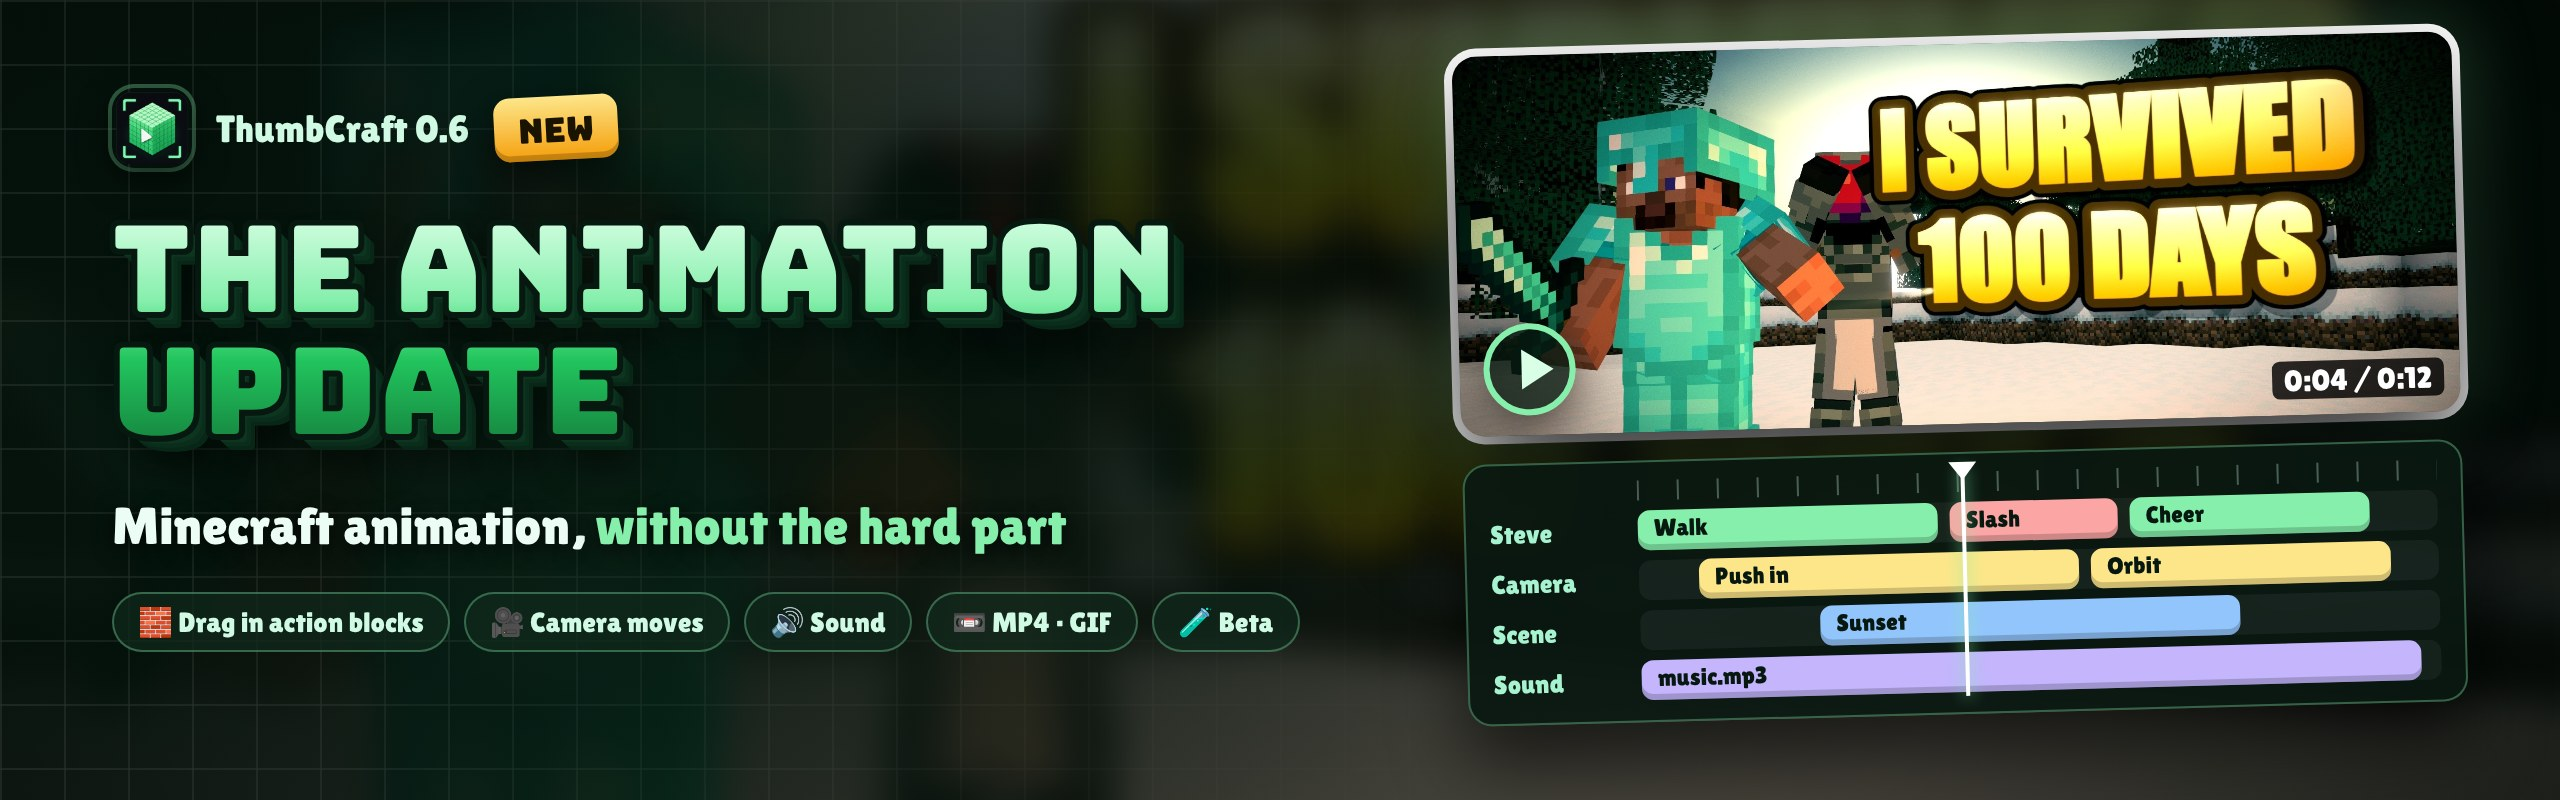
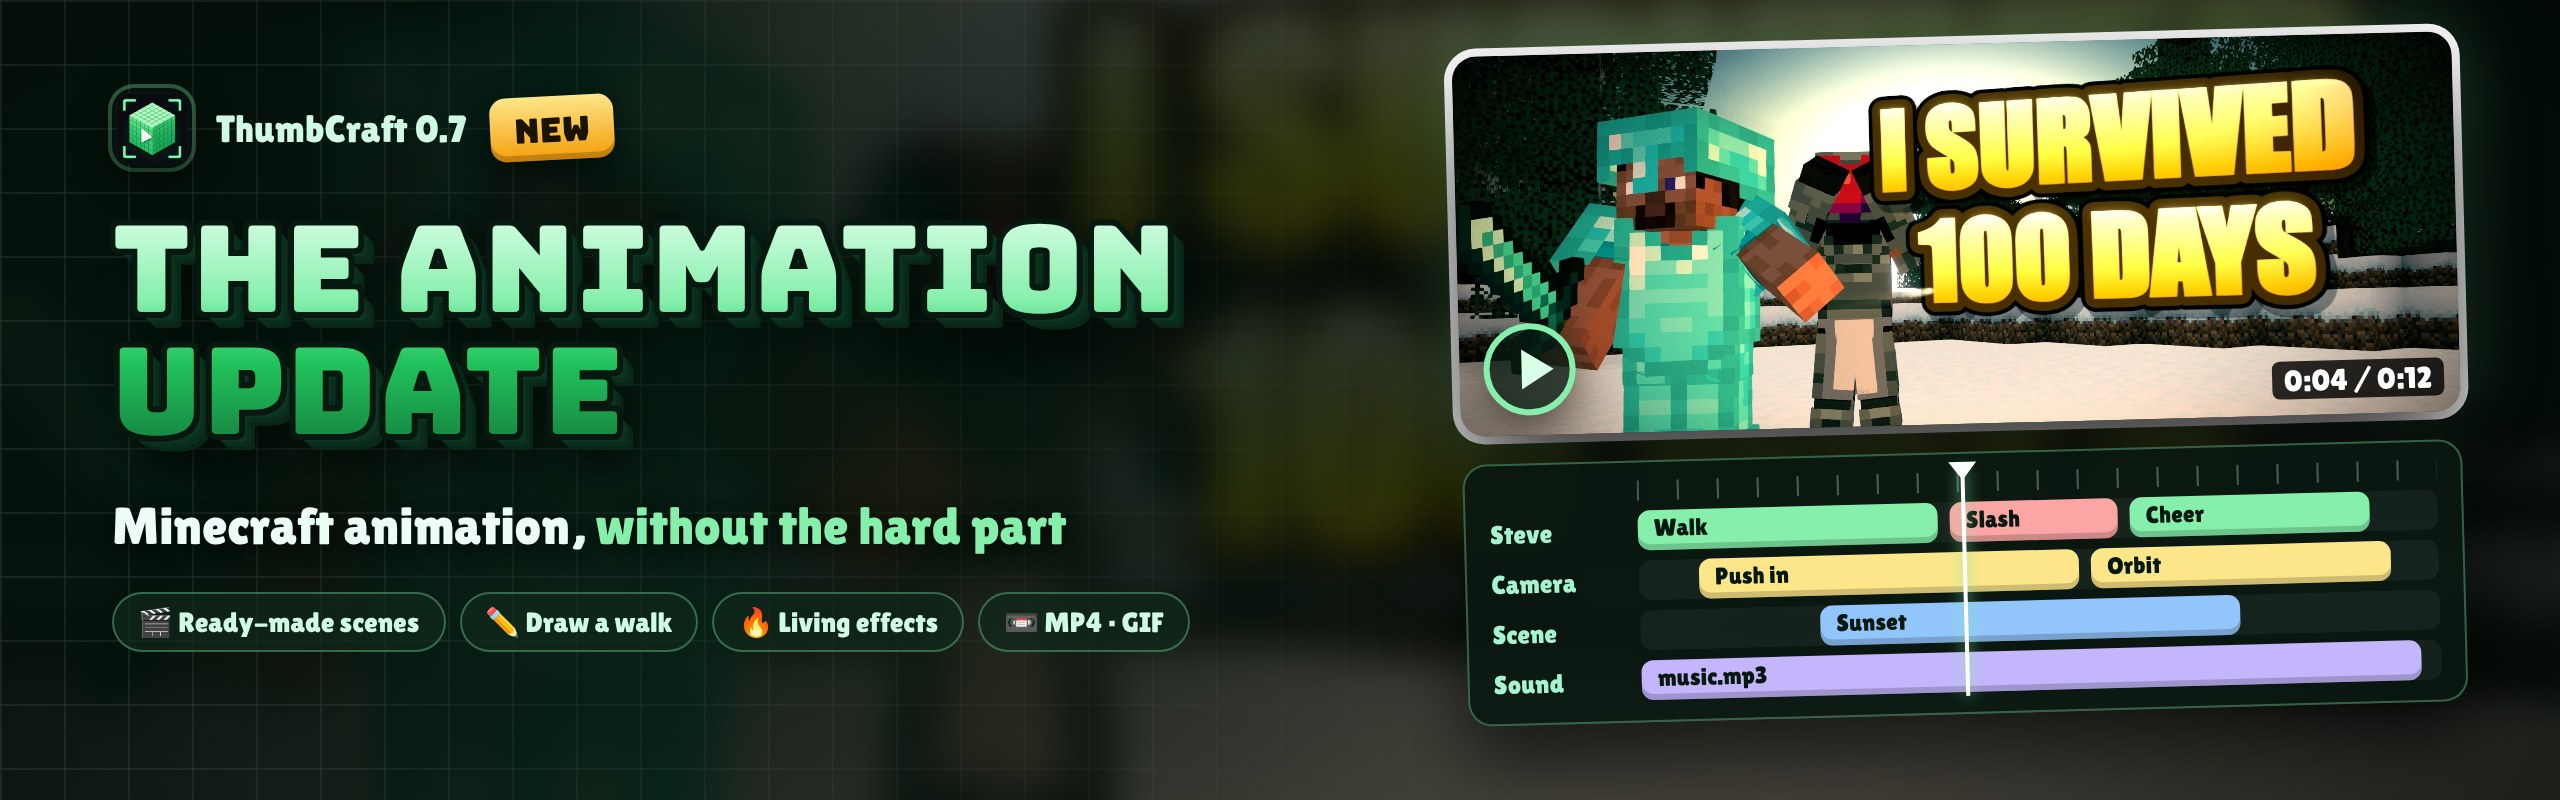
Repo cleanup and a clearer GitHub page for 0.7
- Remove the old ThumbCraft banner (no longer on the page) and its source
- Animation banner shows 0.7 and the new highlights
- README: callouts for beta, Windows, Mac and security notes; long reference parts fold away
- Mention moving effects, ground lock and resizable panels; version 0.7.0

Claude-Session: https://claude.ai/code/session_01Wm62j1Y5oFp5HGaYvJsiN2

Changed region(s): [[0.0312, 0.7188, 0.5, 0.8125], [0.1562, 0.125, 0.25, 0.1875]]

diff --git a/tools/banner/animation.html b/tools/banner/animation.html
@@ -50,7 +50,7 @@ html, body { width: 1280px; height: 400px; overflow: hidden; background: #0b1210
 <body><div class="stage">
   <div class="bg"></div><div class="tint"></div><div class="grid"></div>
   <div class="brand">
-    <div class="kicker"><img class="logo" src="../../build/icon.png"><span>ThumbCraft 0.6</span><span class="new">NEW</span></div>
+    <div class="kicker"><img class="logo" src="../../build/icon.png"><span>ThumbCraft 0.7</span><span class="new">NEW</span></div>
     <div class="title">
       <div class="ghost"><span>THE ANIMATION</span><span>UPDATE</span></div>
       <div class="depth"><span>THE ANIMATION</span><span>UPDATE</span></div>
@@ -58,8 +58,8 @@ html, body { width: 1280px; height: 400px; overflow: hidden; background: #0b1210
     </div>
     <div class="tag">Minecraft animation, <b>without the hard part</b></div>
     <div class="chips">
-      <span class="chip">🧱 Drag in action blocks</span><span class="chip">🎥 Camera moves</span>
-      <span class="chip">🔊 Sound</span><span class="chip">📼 MP4 · GIF</span><span class="chip">🧪 Beta</span>
+      <span class="chip">🎬 Ready-made scenes</span><span class="chip">✏ Draw a walk</span>
+      <span class="chip">🔥 Living effects</span><span class="chip">📼 MP4 · GIF</span>
     </div>
   </div>
   <div class="player">

diff --git a/README.md b/README.md
@@ -1,6 +1,6 @@
 <div align="center">
 
-<a href="#new-animation-mode-beta"><img src="docs/images/animation.jpg" alt="New in ThumbCraft 0.6: the Animation update (beta). Minecraft animation without the hard part: action blocks, camera moves, sound, MP4 and GIF export." width="100%"></a>
+<a href="#new-animation-mode-beta"><img src="docs/images/animation.jpg" alt="New in ThumbCraft 0.7: the Animation update (beta). Minecraft animation without the hard part: ready-made scenes, drawn walks, living effects, MP4 and GIF export." width="100%"></a>
 
 # ThumbCraft
 
@@ -61,7 +61,7 @@ ThumbCraft is a desktop app that turns your own copy of Minecraft into a thumbna
 | 🧍 **Players**                | Type any username to get that skin, including slim arms and the outer layer. Posable down to elbows and knees, with action poses (attack, lunge, run, shocked…), armor and held items.                                                                                                                                                                                               |
 | 🐉 **Mobs**                   | Every mob and entity model in your game version, with texture variants and per-limb posing.                                                                                                                                                                                                                                                                                          |
 | 🏠 **Builds**                 | Every vanilla structure, from village houses to bastions and ancient cities, with isometric previews. You can also import `.schem`, `.litematic` and `.nbt` files.                                                                                                                                                                                                                   |
-| 🔥 **FX**                     | Smoke, fog, fire, explosions, embers, magic, light beams, lightning strikes, **shine** (star glints that make loot and diamonds sparkle), rain and snow, plus particles straight from the game.                                                                                                                                                                                      |
+| 🔥 **FX**                     | Smoke, fog, fire, explosions, embers, magic, light beams, lightning strikes, **shine** (star glints that make loot and diamonds sparkle), rain and snow, plus particles straight from the game. In Animation mode they all move.                                                                                                                                                     |
 | 💡 **Lighting & looks**       | Four render modes: Vanilla, Cinematic, Soft and Cartoon (the bright cel-shaded style of Minecraft's key art). Coloured lights, a **rim light** on any object, bloom, god rays and a movable sun. Film-style colour looks built as real 3D LUTs, plus your own `.cube` LUTs from DaVinci Resolve or Premiere.                                                                         |
 | 🎯 **Focus & lens**           | Drag a focus point onto anything and it stays sharp while the rest blurs; add more points for several subjects. Lens warp (curved-TV bulge or pinch, never black corners), speed burst, anamorphic streaks, chromatic aberration, vignette, film grain, paper cutout, paper folds, film halation, Fujifilm colour, a light leak and a CRT TV look.                                   |
 | 🔤 **Text & media**           | Thumbnail-style outlined text with gradients and glow, 3D text in the Minecraft font, carved **stone titles** in any colour and front-on **Hardcore titles** (every O becomes the hardcore heart). Your own images, videos and 3D models, and one-click background removal. Anything can be set **always on top** with **flat lighting**, so a title never disappears behind a tree. |
@@ -79,7 +79,8 @@ ThumbCraft is a desktop app that turns your own copy of Minecraft into a thumbna
 
 ## New: Animation mode (beta)
 
-> **Beta:** Animation is new and still being polished. Expect rough edges, and please
+> [!IMPORTANT]
+> **Animation is in beta.** It is new and still being polished. Expect rough edges, and please
 > [report what you find](https://github.com/Loveguard/ThumbCraft/issues).
 
 Switch from **Thumbnail** to **Animation** in the top bar and the same scene gets a timeline.
@@ -108,6 +109,10 @@ Switch from **Thumbnail** to **Animation** in the top bar and the same scene get
 - **Blocks, not keyframes.** Walk, Run, Punch, Cheer and 30 more on a character's row. Each action can repeat,
   play once or freeze at the end, and ease in snappy, smooth or gentle.
 - **Poses that hold.** Add a **Pose** block and pose the character: it holds that pose for as long as the block.
+- **Feet on the ground.** Characters stay on the real terrain, slabs and stairs included, so nobody sinks into a
+  hill or hovers over a step.
+- **Living effects.** Fire flickers, smoke and embers rise, magic swirls, shine twinkles, rain and snow fall,
+  lightning strikes and explosions go off at the second you pick. Each can be kept still instead.
 - **Camera moves.** Shots you set, plus orbit, push in, crane up, whip pan, fly-through and more on the camera row.
 - **The scene changes too.** Sun, weather, the look, focus and titles (typewriter, counter) can change over time.
 - **Sound.** Add a track and line blocks up with its beats; characters can talk along with it.
@@ -130,14 +135,19 @@ Colour looks are real film-style 3D LUTs, and your own `.cube` files from DaVinc
    - **Windows:** `ThumbCraft-Setup-<version>.exe` installs the app and keeps it up to date.
      `ThumbCraft-<version>-portable.exe` runs without installing.
    - **macOS:** the `.dmg` works on Intel and Apple Silicon.
-2. Open it.
-   - **Windows:** the app isn't code-signed yet, so SmartScreen may say _"Windows protected your PC"_. Click
-     **More info → Run anyway**. (How to turn signing on: [docs/SIGNING.md](docs/SIGNING.md).)
-   - **macOS:** see [Installing on a Mac](#installing-on-a-mac) below. It takes one extra step the first time.
+2. Open it. On a Mac, see [Installing on a Mac](#installing-on-a-mac) below: it takes one extra step the first
+   time.
 3. That's it. ThumbCraft finds your Minecraft automatically, whether it's the official launcher, Prism, Modrinth
    or CurseForge.
 
+> [!NOTE]
+> **Windows:** the app isn't code-signed yet, so SmartScreen may say _"Windows protected your PC"_. Click
+> **More info → Run anyway**. (How to turn signing on: [docs/SIGNING.md](docs/SIGNING.md).)
+
 ### Installing on a Mac
+
+<details>
+<summary><b>Allow ThumbCraft once on macOS (one extra step)</b></summary>
 
 ThumbCraft is free and made by one creator. Apple only "notarises" apps for members of its developer program,
 which costs $99 a year, so the Mac version isn't notarised. It works fine, but macOS blocks it on first launch
@@ -151,8 +161,9 @@ allow it once:
 
 On macOS 14 (Sonoma) and older you can instead **right-click the app → Open → Open**.
 
-If macOS says the app _"is damaged and can't be opened"_, that's the same block worded differently. Paste this
-into **Terminal** and open the app again:
+> [!TIP]
+> If macOS says the app _"is damaged and can't be opened"_, that's the same block worded differently. Paste this
+> into **Terminal** and open the app again:
 
 ```bash
 xattr -dr com.apple.quarantine /Applications/ThumbCraft.app
@@ -160,9 +171,12 @@ xattr -dr com.apple.quarantine /Applications/ThumbCraft.app
 
 On a Mac, new versions are announced inside the app with a download link; they don't install themselves.
 
-**You need** Minecraft: Java Edition 1.18 or newer. If the app can't find your game, it downloads the files
-from Mojang for you. Generating terrain needs Java. The official launcher already includes it, and if it's
-missing ThumbCraft installs it with one click.
+</details>
+
+> [!NOTE]
+> **You need** Minecraft: Java Edition 1.18 or newer. If the app can't find your game, it downloads the files
+> from Mojang for you. Generating terrain needs Java. The official launcher already includes it, and if it's
+> missing ThumbCraft installs it with one click.
 
 ## System requirements
 
@@ -177,6 +191,9 @@ ThumbCraft is light. If your PC can run Minecraft, it can run ThumbCraft, and mo
 | **Disk space** | 1 GB free                                                            | 2 GB free                                          |
 | **Internet**   | Only the first time (game files, Java) and to fetch player skins     | Same                                               |
 
+<details>
+<summary><b>Tips for older PCs</b></summary>
+
 - **On an older or slower PC,** use the **Vanilla** render mode: it's the lightest, and drawing the scene the
   way the game does costs very little. Cinematic, Soft and Cartoon add real-time shadows and effects that a
   modern GPU handles easily.
@@ -184,6 +201,8 @@ ThumbCraft is light. If your PC can run Minecraft, it can run ThumbCraft, and mo
   memory: ThumbCraft gives it a quarter of your RAM (1 GB on a 4 GB PC), and it simply takes a little longer on
   older machines. The ready-made backdrops need nothing extra.
 - **Exports** (even 4K) are rendered once when you click Export, so a slow PC just takes a second longer.
+
+</details>
 
 ## Your first thumbnail
 
@@ -201,7 +220,11 @@ ThumbCraft is light. If your PC can run Minecraft, it can run ThumbCraft, and mo
 The labelled icons on the left open one panel at a time (click the open one again to fold the panel away),
 and the panel on the right edits whatever you've selected. Every editing tool (move, rotate, scale, undo, camera
 angles, saved view, frame all, grid, snap, rulers) sits in the dock under the canvas. **Hide panels** (the last dock
-button, or **\\**) clears both side panels away so the thumbnail fills the window.
+button, or **\\**) clears both side panels away so the thumbnail fills the window. Drag the inner edge of either side
+panel, or the top of the timeline, to make it bigger or smaller; double-click the edge to reset it.
+
+<details>
+<summary><b>Every panel, explained</b></summary>
 
 - **Biomes:** swap in a ready-made backdrop instantly, or generate any real biome (needs Java; the first run
   takes up to a minute). **Import from your own world** cuts an area out of one of your saves.
@@ -231,7 +254,12 @@ button, or **\\**) clears both side panels away so the thumbnail fills the windo
 - **Render mode** (Render & camera, right panel): Vanilla is exactly the game's look; Cinematic, Soft and
   Cartoon add a real sun with shadows.
 
+</details>
+
 ### Shortcuts
+
+<details>
+<summary><b>Keyboard shortcuts</b></summary>
 
 | Keys                          | Does                                      |
 | ----------------------------- | ----------------------------------------- |
@@ -252,7 +280,10 @@ button, or **\\**) clears both side panels away so the thumbnail fills the windo
 | **Esc**                       | Deselect                                  |
 | **Ctrl+N / Ctrl+O / Ctrl+S**  | New / open / save project                 |
 
-_Psst: there's a secret code somewhere. Find it, and three extra scenes unlock._
+</details>
+
+> [!TIP]
+> Psst: there's a secret code somewhere. Find it, and three extra scenes unlock.
 
 ## How it works
 
@@ -277,9 +308,10 @@ details are in [docs/DEVELOPMENT.md](docs/DEVELOPMENT.md#how-it-stays-accurate-n
 - **Opening a project is safe.** The app runs in Electron's sandbox, can't open web pages inside itself, and
   ignores project files that try to load files from your disk.
 
-Found a security problem? Please report it privately through
-[GitHub's security advisories](https://github.com/Loveguard/ThumbCraft/security/advisories/new) instead of a public
-issue.
+> [!IMPORTANT]
+> Found a security problem? Please report it privately through
+> [GitHub's security advisories](https://github.com/Loveguard/ThumbCraft/security/advisories/new) instead of a public
+> issue.
 
 ## FAQ
 

diff --git a/docs/FEATURES.md b/docs/FEATURES.md
@@ -4,7 +4,7 @@
 
 | Area                   | What works                                                                                                                                                                                                                                                                                                                                                                                                                                                                                                                                                                                                                                                                                                                                         |
 | ---------------------- | -------------------------------------------------------------------------------------------------------------------------------------------------------------------------------------------------------------------------------------------------------------------------------------------------------------------------------------------------------------------------------------------------------------------------------------------------------------------------------------------------------------------------------------------------------------------------------------------------------------------------------------------------------------------------------------------------------------------------------------------------- |
-| **Animation (beta)**   | A timeline over the scene: ready-made scene starters, walk, run, sprint and action blocks along drawn paths (with pathfinding), Pose blocks that hold, quick actions on a click, camera moves and shots you set, changes to the sun, weather, look and titles over time, sound with beat markers, presets (`.thumbpack`), Blockbench import and glTF export. Exports MP4/WebM, GIF, PNG sequences and characters on a transparent background, with motion blur.                                                                                                                                                                                                                                                                                    |
+| **Animation (beta)**   | A timeline over the scene: ready-made scene starters, walk, run, sprint and action blocks along drawn paths (with pathfinding), Pose blocks that hold, quick actions on a click, camera moves and shots you set, changes to the sun, weather, look and titles over time, characters kept on the real ground, effects and weather that move (or stay still), sound with beat markers, presets (`.thumbpack`), Blockbench import and glTF export. Exports MP4/WebM, GIF, PNG sequences and characters on a transparent background, with motion blur.                                                                                                                                                                                                 |
 | **Resource packs**     | Zip or folder packs stacked over the game's textures and models, top pack first.                                                                                                                                                                                                                                                                                                                                                                                                                                                                                                                                                                                                                                                                   |
 | **Photoshop export**   | A layered `.psd`: sky, terrain, and each build, mob, player, title and sticker on its own layer, in folders by kind. Layers are rendered with effects off; each effect has its own folder with its light on an Add layer, so hiding it takes its glow off everything.                                                                                                                                                                                                                                                                                                                                                                                                                                                                              |
 | **Biome scenes**       | Pick a dimension (Overworld / Nether / End) and any biome from your game version, optionally a seed and an area size, and generate.                                                                                                                                                                                                                                                                                                                                                                                                                                                                                                                                                                                                                |
